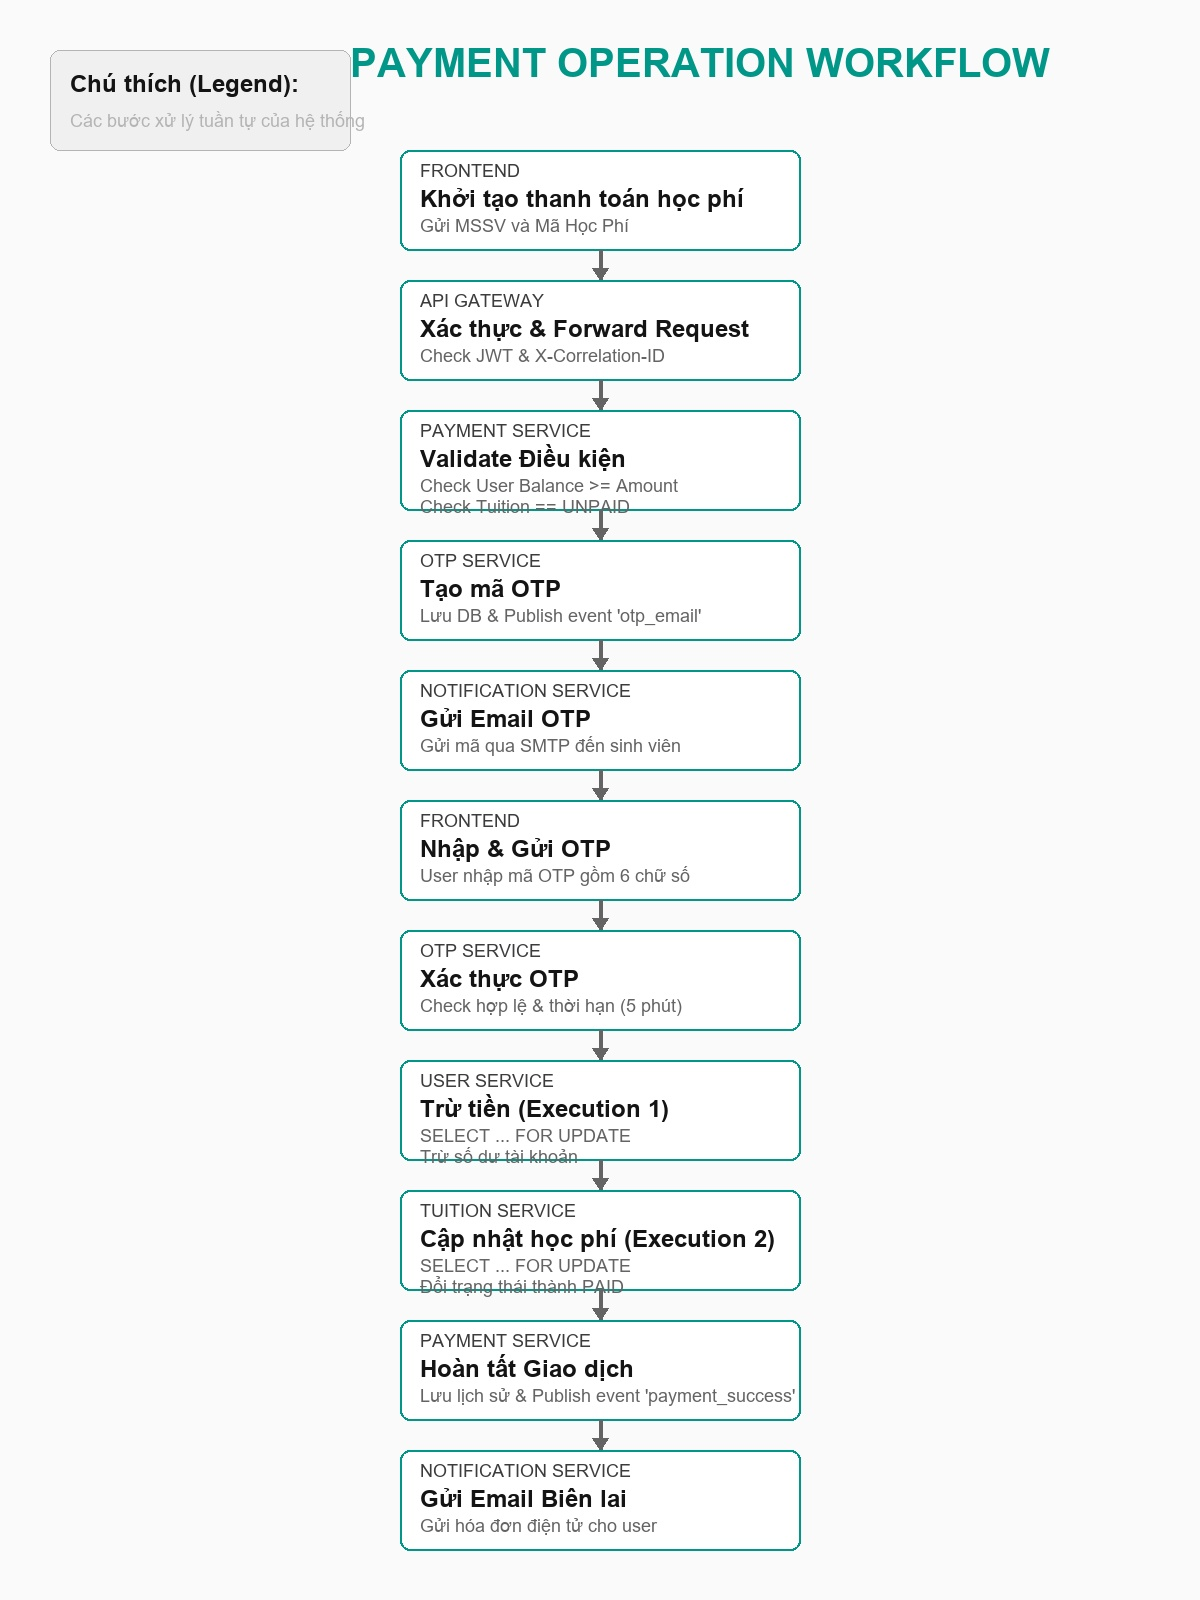
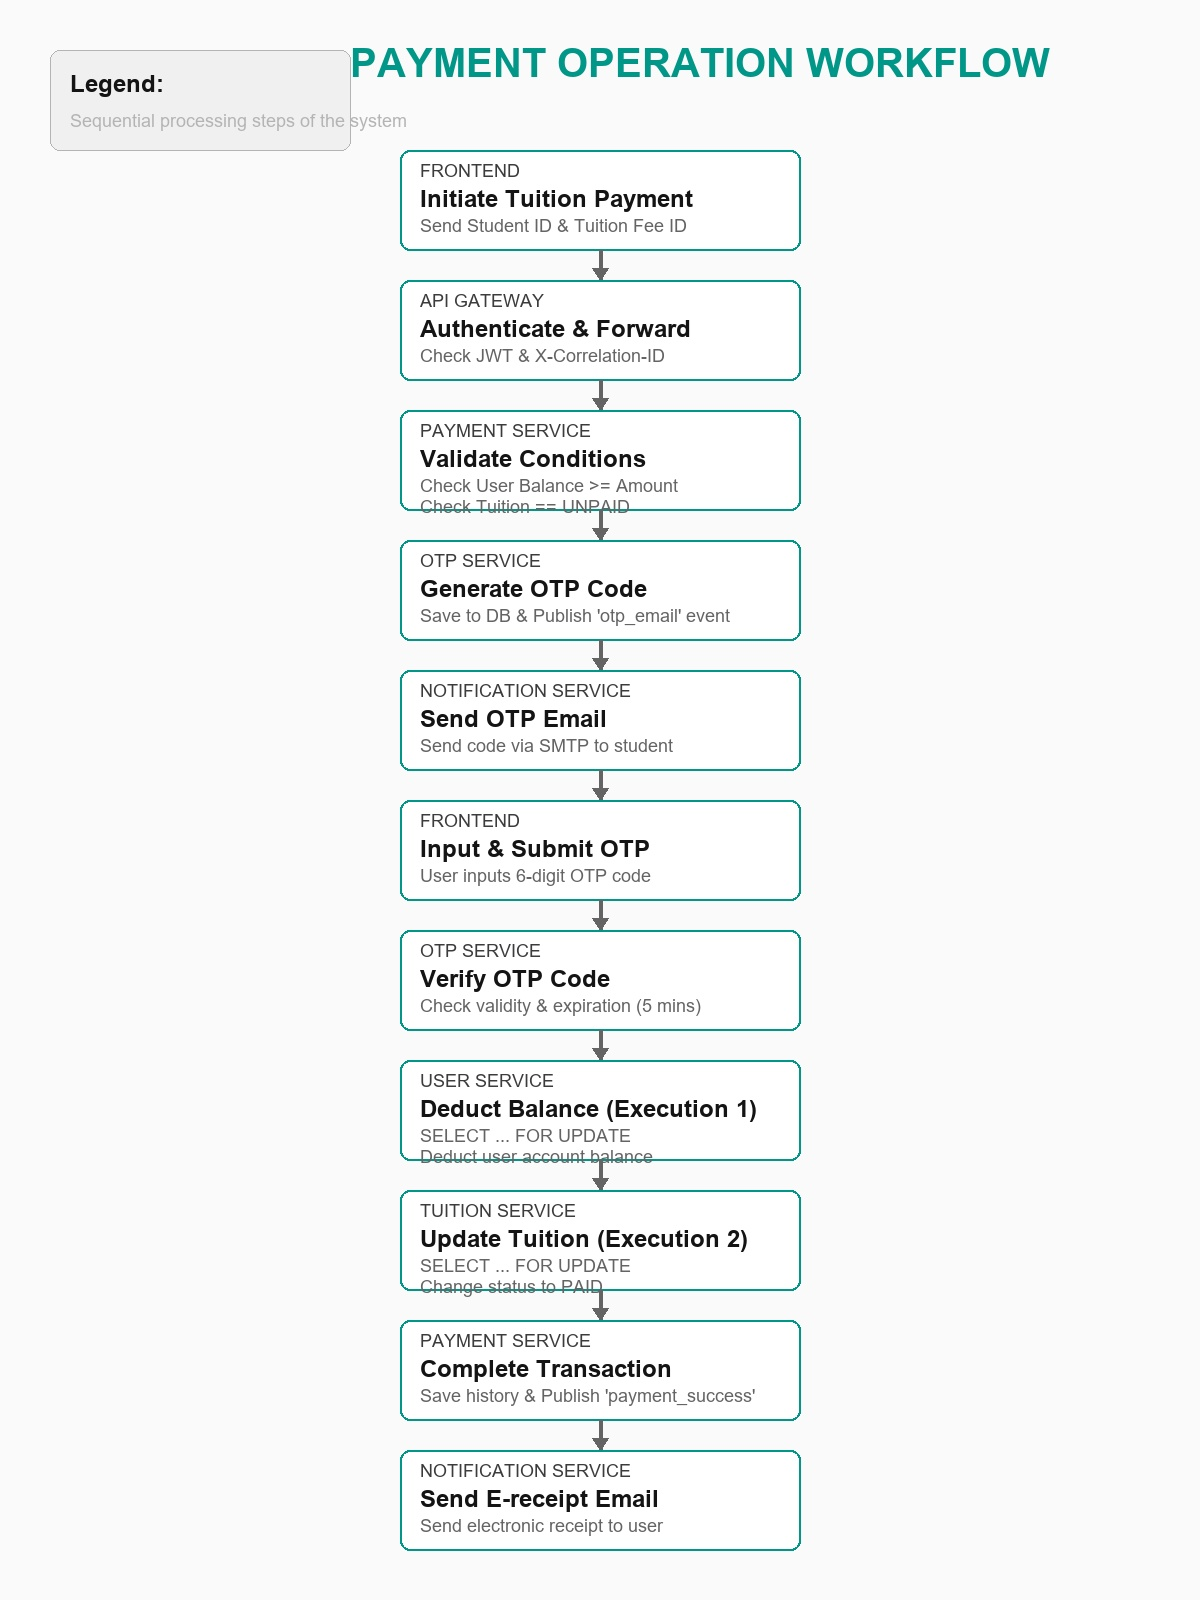
docs: translate workflow diagram to english

diff --git a/scripts/draw_workflow.py b/scripts/draw_workflow.py
@@ -30,17 +30,17 @@ def draw_workflow():
     
     # Định nghĩa các bước
     steps = [
-        {"actor": "FRONTEND", "action": "Khởi tạo thanh toán học phí", "desc": "Gửi MSSV và Mã Học Phí"},
-        {"actor": "API GATEWAY", "action": "Xác thực & Forward Request", "desc": "Check JWT & X-Correlation-ID"},
-        {"actor": "PAYMENT SERVICE", "action": "Validate Điều kiện", "desc": "Check User Balance >= Amount\nCheck Tuition == UNPAID"},
-        {"actor": "OTP SERVICE", "action": "Tạo mã OTP", "desc": "Lưu DB & Publish event 'otp_email'"},
-        {"actor": "NOTIFICATION SERVICE", "action": "Gửi Email OTP", "desc": "Gửi mã qua SMTP đến sinh viên"},
-        {"actor": "FRONTEND", "action": "Nhập & Gửi OTP", "desc": "User nhập mã OTP gồm 6 chữ số"},
-        {"actor": "OTP SERVICE", "action": "Xác thực OTP", "desc": "Check hợp lệ & thời hạn (5 phút)"},
-        {"actor": "USER SERVICE", "action": "Trừ tiền (Execution 1)", "desc": "SELECT ... FOR UPDATE\nTrừ số dư tài khoản"},
-        {"actor": "TUITION SERVICE", "action": "Cập nhật học phí (Execution 2)", "desc": "SELECT ... FOR UPDATE\nĐổi trạng thái thành PAID"},
-        {"actor": "PAYMENT SERVICE", "action": "Hoàn tất Giao dịch", "desc": "Lưu lịch sử & Publish event 'payment_success'"},
-        {"actor": "NOTIFICATION SERVICE", "action": "Gửi Email Biên lai", "desc": "Gửi hóa đơn điện tử cho user"}
+        {"actor": "FRONTEND", "action": "Initiate Tuition Payment", "desc": "Send Student ID & Tuition Fee ID"},
+        {"actor": "API GATEWAY", "action": "Authenticate & Forward", "desc": "Check JWT & X-Correlation-ID"},
+        {"actor": "PAYMENT SERVICE", "action": "Validate Conditions", "desc": "Check User Balance >= Amount\nCheck Tuition == UNPAID"},
+        {"actor": "OTP SERVICE", "action": "Generate OTP Code", "desc": "Save to DB & Publish 'otp_email' event"},
+        {"actor": "NOTIFICATION SERVICE", "action": "Send OTP Email", "desc": "Send code via SMTP to student"},
+        {"actor": "FRONTEND", "action": "Input & Submit OTP", "desc": "User inputs 6-digit OTP code"},
+        {"actor": "OTP SERVICE", "action": "Verify OTP Code", "desc": "Check validity & expiration (5 mins)"},
+        {"actor": "USER SERVICE", "action": "Deduct Balance (Execution 1)", "desc": "SELECT ... FOR UPDATE\nDeduct user account balance"},
+        {"actor": "TUITION SERVICE", "action": "Update Tuition (Execution 2)", "desc": "SELECT ... FOR UPDATE\nChange status to PAID"},
+        {"actor": "PAYMENT SERVICE", "action": "Complete Transaction", "desc": "Save history & Publish 'payment_success'"},
+        {"actor": "NOTIFICATION SERVICE", "action": "Send E-receipt Email", "desc": "Send electronic receipt to user"}
     ]
 
     box_w = 400
@@ -81,13 +81,13 @@ def draw_workflow():
             
     # Vẽ Legend / Chú thích
     draw.rounded_rectangle([50, 50, 350, 150], radius=10, fill=(240, 240, 240), outline=(180, 180, 180), width=1)
-    draw.text((70, 70), "Chú thích (Legend):", font=font_main, fill=text_color)
-    draw.text((70, 110), "Các bước xử lý tuần tự của hệ thống", font=font_sub, fill=(180, 180, 180))
+    draw.text((70, 70), "Legend:", font=font_main, fill=text_color)
+    draw.text((70, 110), "Sequential processing steps of the system", font=font_sub, fill=(180, 180, 180))
 
     # Lưu ảnh
     os.makedirs('docs/diagrams', exist_ok=True)
     img.save('docs/diagrams/so_do_workflow.jpg', quality=95)
-    print("Đã tạo thành công docs/diagrams/so_do_workflow.jpg")
+    print("Successfully generated docs/diagrams/so_do_workflow.jpg")
 
 if __name__ == "__main__":
     draw_workflow()
